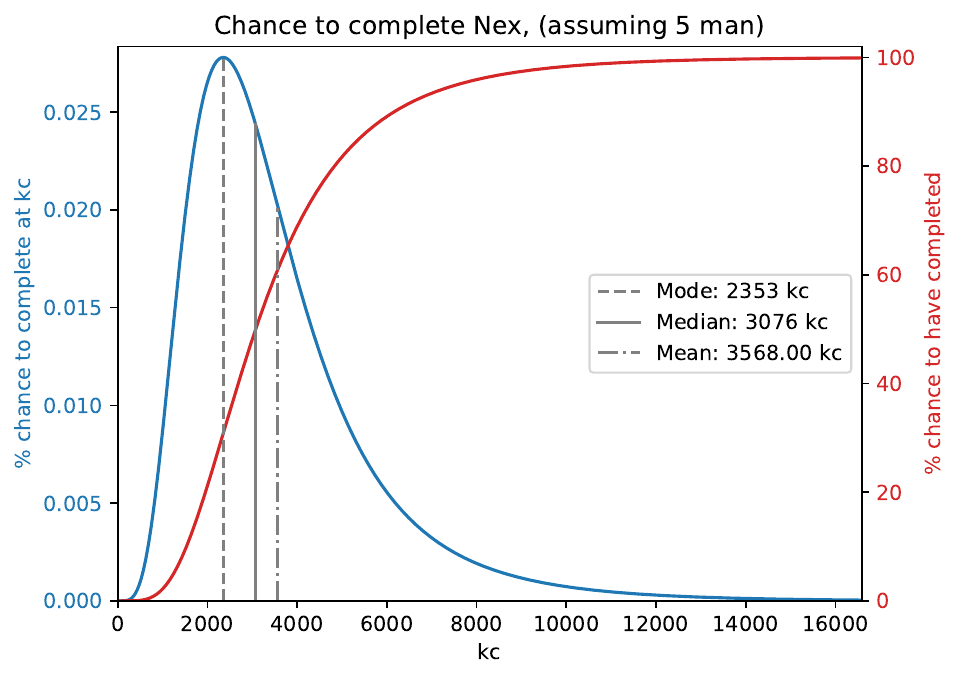
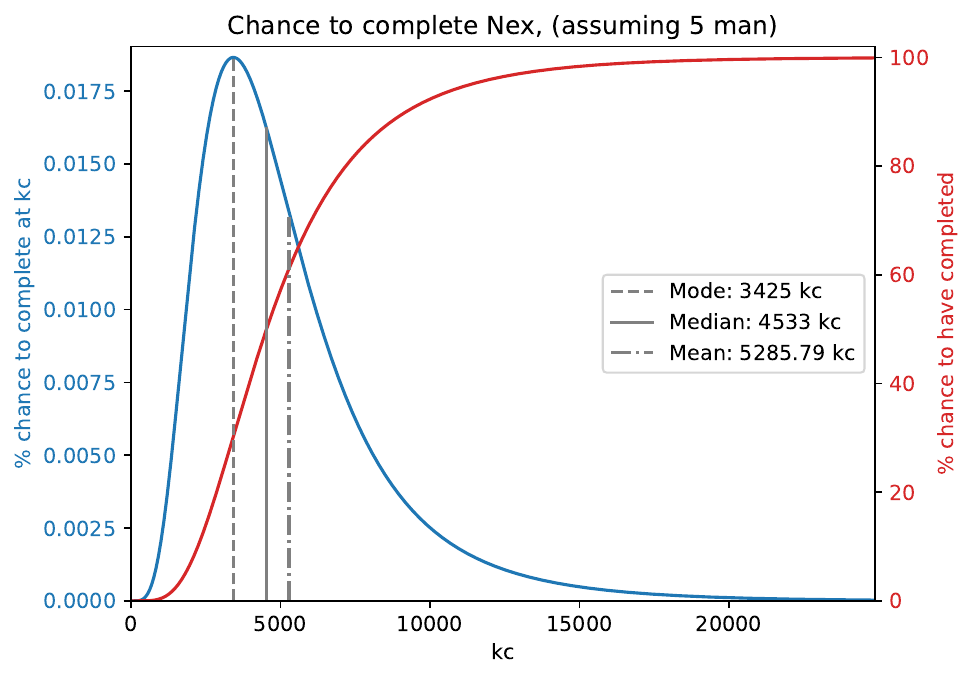
new nex rates again

diff --git a/bosses.py b/bosses.py
@@ -414,7 +414,7 @@ class phosanis_nightmare(monster):
         self.teamsize = teamsize
 
 class nex(monster):
-    loot_odds = {"Zaryte vambraces":1/200,"Torva full helm (damaged)":1/240,"Torva platebody (damaged)":1/240, "Torva platelegs (damaged)":1/240, "Nihil horn":1/240, "Ancient hilt":1/480}
+    loot_odds = {"Zaryte vambraces":1/240,"Torva full helm (damaged)":1/360,"Torva platebody (damaged)":1/360, "Torva platelegs (damaged)":1/360, "Nihil horn":1/360, "Ancient hilt":1/720}
     loot_amount = {"Zaryte vambraces":1,"Torva full helm (damaged)":1,"Torva platebody (damaged)":1, "Torva platelegs (damaged)":1, "Nihil horn":1, "Ancient hilt":1}
 
 
